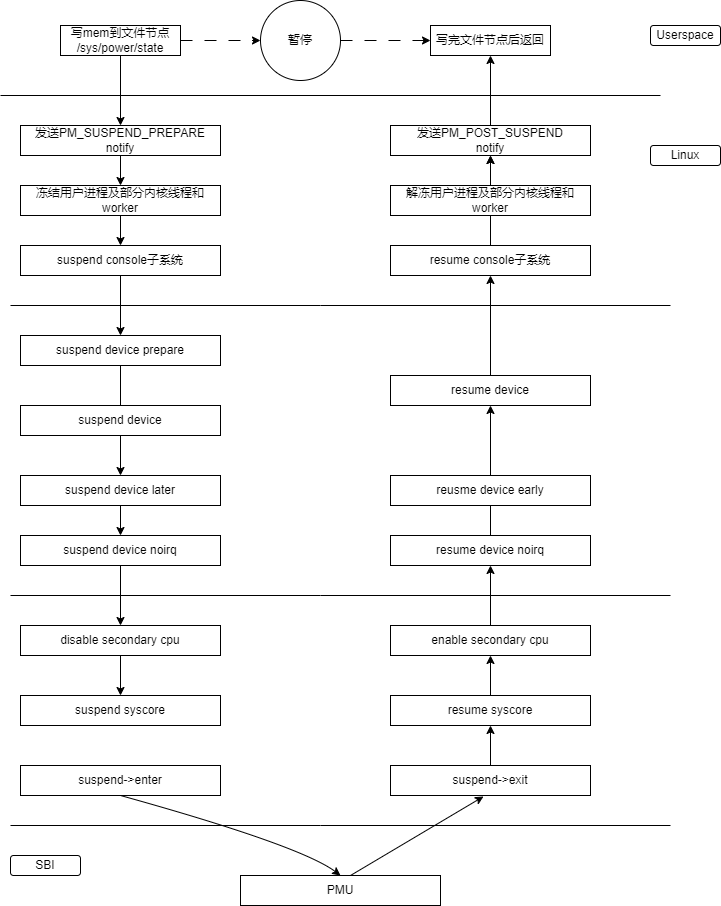
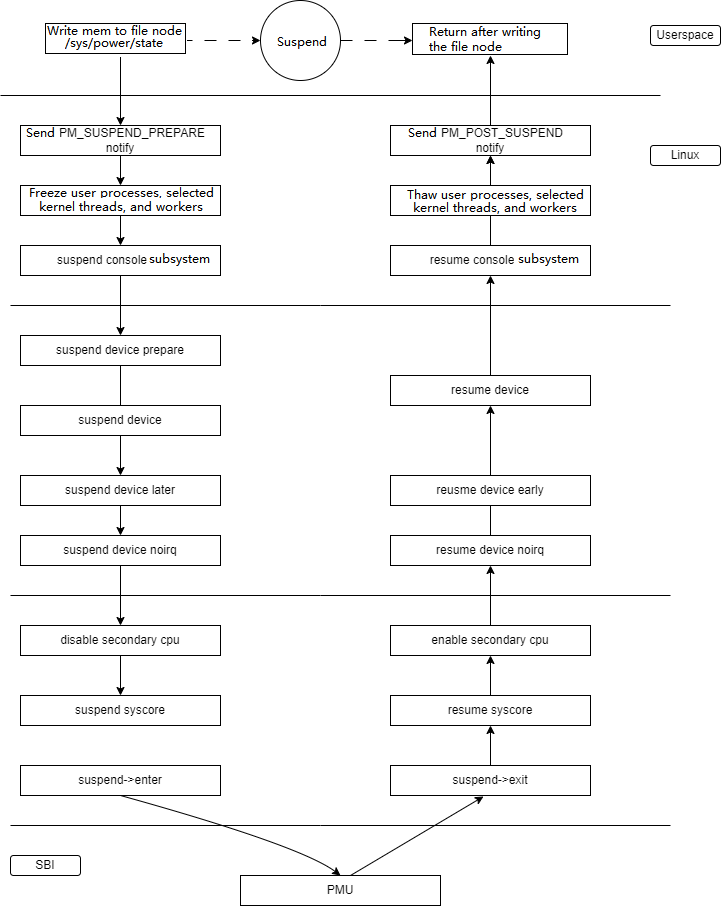
Translated standby into English

diff --git a/en/device/standby.md b/en/device/standby.md
@@ -1,27 +1,33 @@
+---  
+sidebar_position: 7  
 ---
-sidebar_position: 7
----
 
-# Standby
+# Standby  
 
-Linux standby模式是一种省电模式，在这种模式下，计算机进入睡眠状态以节省功耗；当系统处于standby模式时，系统自动将大部分硬件设备关闭或者进入低功耗状态，并且DDR进入自刷新状态。
+**Linux Standby** mode is a power-saving state where the system enters sleep to reduce power consumption. In this mode:  
 
-## 功能介绍
+- **Most hardware devices are automatically powered down** or **put into low-power states**  
+- **DDR enters self-refresh mode**  
 
-系统休眠唤醒框图如下：
+## Module Overview  
+
+### Functional Description  
+
+The system sleep/wakeup architecture is shown below:  
 ![](static/standby.png)  
 
-系统的休眠唤醒分为四层：  
+The sleep/wakeup process involves four layers:  
 
-1. 用户空间层，主要是系统休眠的发起方
-2. 内核层，主要处理冻结用户进程、内核线程、以及各个设备的休眠唤醒等
-3. OPENSBI层，该层会操作PMU，让系统进入休眠
-4. 硬件层，PMU硬件处理系统休眠唤醒的硬件逻辑
+1. **Userspace Layer:** Initiates system suspension  
+2. **Kernel Layer:** Handles:  
+   - Freezing user processes and kernel threads  
+   - Device suspend/resume operations  
+3. **OPENSBI Layer:** Interfaces with PMU to enter sleep state  
+4. **Hardware Layer:** PMU handles low-level sleep/wake logic  
 
-## 源码结构介绍
+### Source Code Structure  
 
-控制器驱动代码在 drivers/soc/spacemit/pm/目录下：
-
+**Controller driver code** (located at `drivers/soc/spacemit/pm/`):  
 ```
 drivers/soc/spacemit/pm/
 ├── Makefile
@@ -29,11 +35,9 @@ drivers/soc/spacemit/pm/
 ├── platform_hibernation_pm_ops.c
 ├── platform_pm.c
 ├── platform_pm_ops.c
-
 ```
 
-休眠唤醒核心层代码在 kernel/power目录下：
-
+**Core sleep/wake layer** (located at `kernel/power`):  
 ```
 kernel/power/
 ├── Kconfig
@@ -42,53 +46,46 @@ kernel/power/
 └── wakelock.c
 ```
 
-# 关键特性
+## Key Features  
 
-## 特性
+### Features  
 
-无
+N/A  
 
-## 性能参数
+### Performance Parameters  
 
-| 休眠时间 | 唤醒时间 | 休眠功耗 |  
-| :-----| :----| :----: | :----: |:----: |  
-| 3s | 1s | 32.3 mw |
+| Suspend Time | Wakeup Time | Sleep Power |  
+|-------------|------------|------------|  
+| 3s         | 1s        | 32.3 mW   |  
 
-# 配置介绍
+## Configuration Guide  
 
-主要包括驱动使能配置和dts配置
+Includes **driver enablement** and **DTS configuration**  
 
-## CONFIG配置
-
-```
- CONFIG_SUSPEND:
- Allow the system to enter sleep states in which main memory is
- powered and thus its contents are preserved, such as the
- suspend-to-RAM state (e.g. the ACPI S3 state).
- 
- Symbol: SUSPEND [=y]
- Type  : bool
- Defined at kernel/power/Kconfig:2
-  Prompt: Suspend to RAM and standby
-  Depends on: ARCH_SUSPEND_POSSIBLE [=y]
-  Location:
-   -> Power management options
-   -> Suspend to RAM and standby (SUSPEND [=y]) 
-```
-
-## dts配置
+### CONFIG Settings  
 
 ```
-无
+CONFIG_SUSPEND:
+Allow the system to enter sleep states where main memory remains powered
+(e.g., suspend-to-RAM like ACPI S3 state).
+
+Symbol: SUSPEND [=y]
+Type  : bool
+Defined at kernel/power/Kconfig:2
+ Prompt: Suspend to RAM and standby
+ Depends on: ARCH_SUSPEND_POSSIBLE [=y]
+ Location:
+  -> Power management options
+  -> Suspend to RAM and standby (SUSPEND [=y])
 ```
 
-## 典型唤醒源配置  
+### Typical Wakeup Source Configurations  
 
-### power-key
+#### Power Key  
 
-本唤醒源使用的是pmic上面的ONEKEY，其基本配置如下：
+Uses PMIC's ONEKEY functionality:  
 
-#### dts
+##### DTS  
 
 ```
 &i2c8 {
@@ -112,80 +109,65 @@ kernel/power/
 };
 ```  
 
-#### 驱动源码
+##### Driver Source  
 
 ```
 drivers/input/misc/
 ├── spacemit-pwrkey.c
 
-使能唤醒地方
+Wakeup enable location:
 vi drivers/soc/spacemit/pm_domain/k1x-pm_domain.c +825
 ```  
 
-### pinctrl edge-detect唤醒
+#### Pinctrl Edge-Detect Wakeup  
 
-利用pinctrl edge-detect功能实现唤醒源的有hall原件开关盖、sdio-wifi唤醒，本场景以hall元件实现开盖唤醒作为例子禅师edge-detect唤醒功能的实现
-hall元件正常工作状态使用gpio中断上报开关盖事件，系统休眠时使用pinctrl上升沿触发系统唤醒
+Used for scenarios like hall sensor lid detection or SDIO-WiFi wakeup. Example shows hall sensor implementation using GPIO interrupt during normal operation and pinctrl edge-triggering for wakeup.  
 
-#### dts
+##### DTS  
 
 ```
-        spacemit_lid:spacemit_lid {
-                compatible = "spacemit,k1x-lid";
-                pinctrl-names = "default";
-                pinctrl-0 = <&pinctrl_hall_wakeup>;
-                lid-gpios = <&gpio 74 0>;
-                interrupts-extended = <&gpio 74 1
-                                &pinctrl 300>;
-        };
+spacemit_lid:spacemit_lid {
+        compatible = "spacemit,k1x-lid";
+        pinctrl-names = "default";
+        pinctrl-0 = <&pinctrl_hall_wakeup>;
+        lid-gpios = <&gpio 74 0>;
+        interrupts-extended = <&gpio 74 1
+                        &pinctrl 300>;
+};
 ```
 
-#### 源码目录结构
+##### Source Structure  
 
 ```
 drivers/soc/spacemit/
 ├── spacemit_lid.c
 ```
 
-代码实现如下：
-
+Implementation:  
 ```
 static int spacemit_lid_probe(struct platform_device *pdev)
 {
   ....
         hall->normal_irq = platform_get_irq(pdev, 0);
-        if (hall->normal_irq < 0)
-                return -EINVAL;
-
         hall->wakeup_irq = platform_get_irq(pdev, 1);
-        if (hall->wakeup_irq < 0) {
-                return -EINVAL;
-        }
 
-  /* 正常功能使用gpio */
+        /* Normal operation uses GPIO interrupt */
         error = devm_request_irq(&pdev->dev, hall->normal_irq,
                         hall_wakeup_detect,
                         IRQF_NO_SUSPEND | IRQF_TRIGGER_FALLING | IRQF_TRIGGER_RISING,
                         "hall-detect", (void *)hall);
-        if (error) {
-                pr_err("request hall pinctrl dectect failed\n");
-                return -EINVAL;
-        }
 
-  /* 唤醒源使用pinctrl */
+        /* Wakeup uses pinctrl interrupt */
         dev_pm_set_dedicated_wake_irq_spacemit(&pdev->dev, hall->wakeup_irq, IRQ_TYPE_EDGE_RISING);
         device_init_wakeup(&pdev->dev, true);
-
-        return 0;
 }
 ```
 
-# 接口描述
+## API Reference  
 
-## 测试介绍
+### Testing Procedure  
 
-我们可以通过rtc唤醒方式测试我们的我们standby的功能，例子如下:
-
+Example RTC wakeup test script:  
 ```
 #!/bin/sh
 echo 9 > /proc/sys/kernel/printk
@@ -200,27 +182,15 @@ do
         echo "----->counter:$counter"
         sleep 20
 done
-```
+``` 
 
-## API介绍
+## Debugging  
 
-```
-暂无
+### Sysfs Interface  
+
+Follows standard Linux PM sysfs conventions. Reference:  
+``` 
+Documentation/admin-guide/pm/sleep-states.rst
 ```  
 
-## Debug介绍
-
-### sysfs
-
-```
-休眠唤醒的sysfs遵循linux标准规范，请参考Linux内核文档：  
-Documentation/admin-guide/pm/sleep-states.rst
-```
-
-### debugfs
-
-```
-无
-```
-
-# FAQ
+## FAQ
